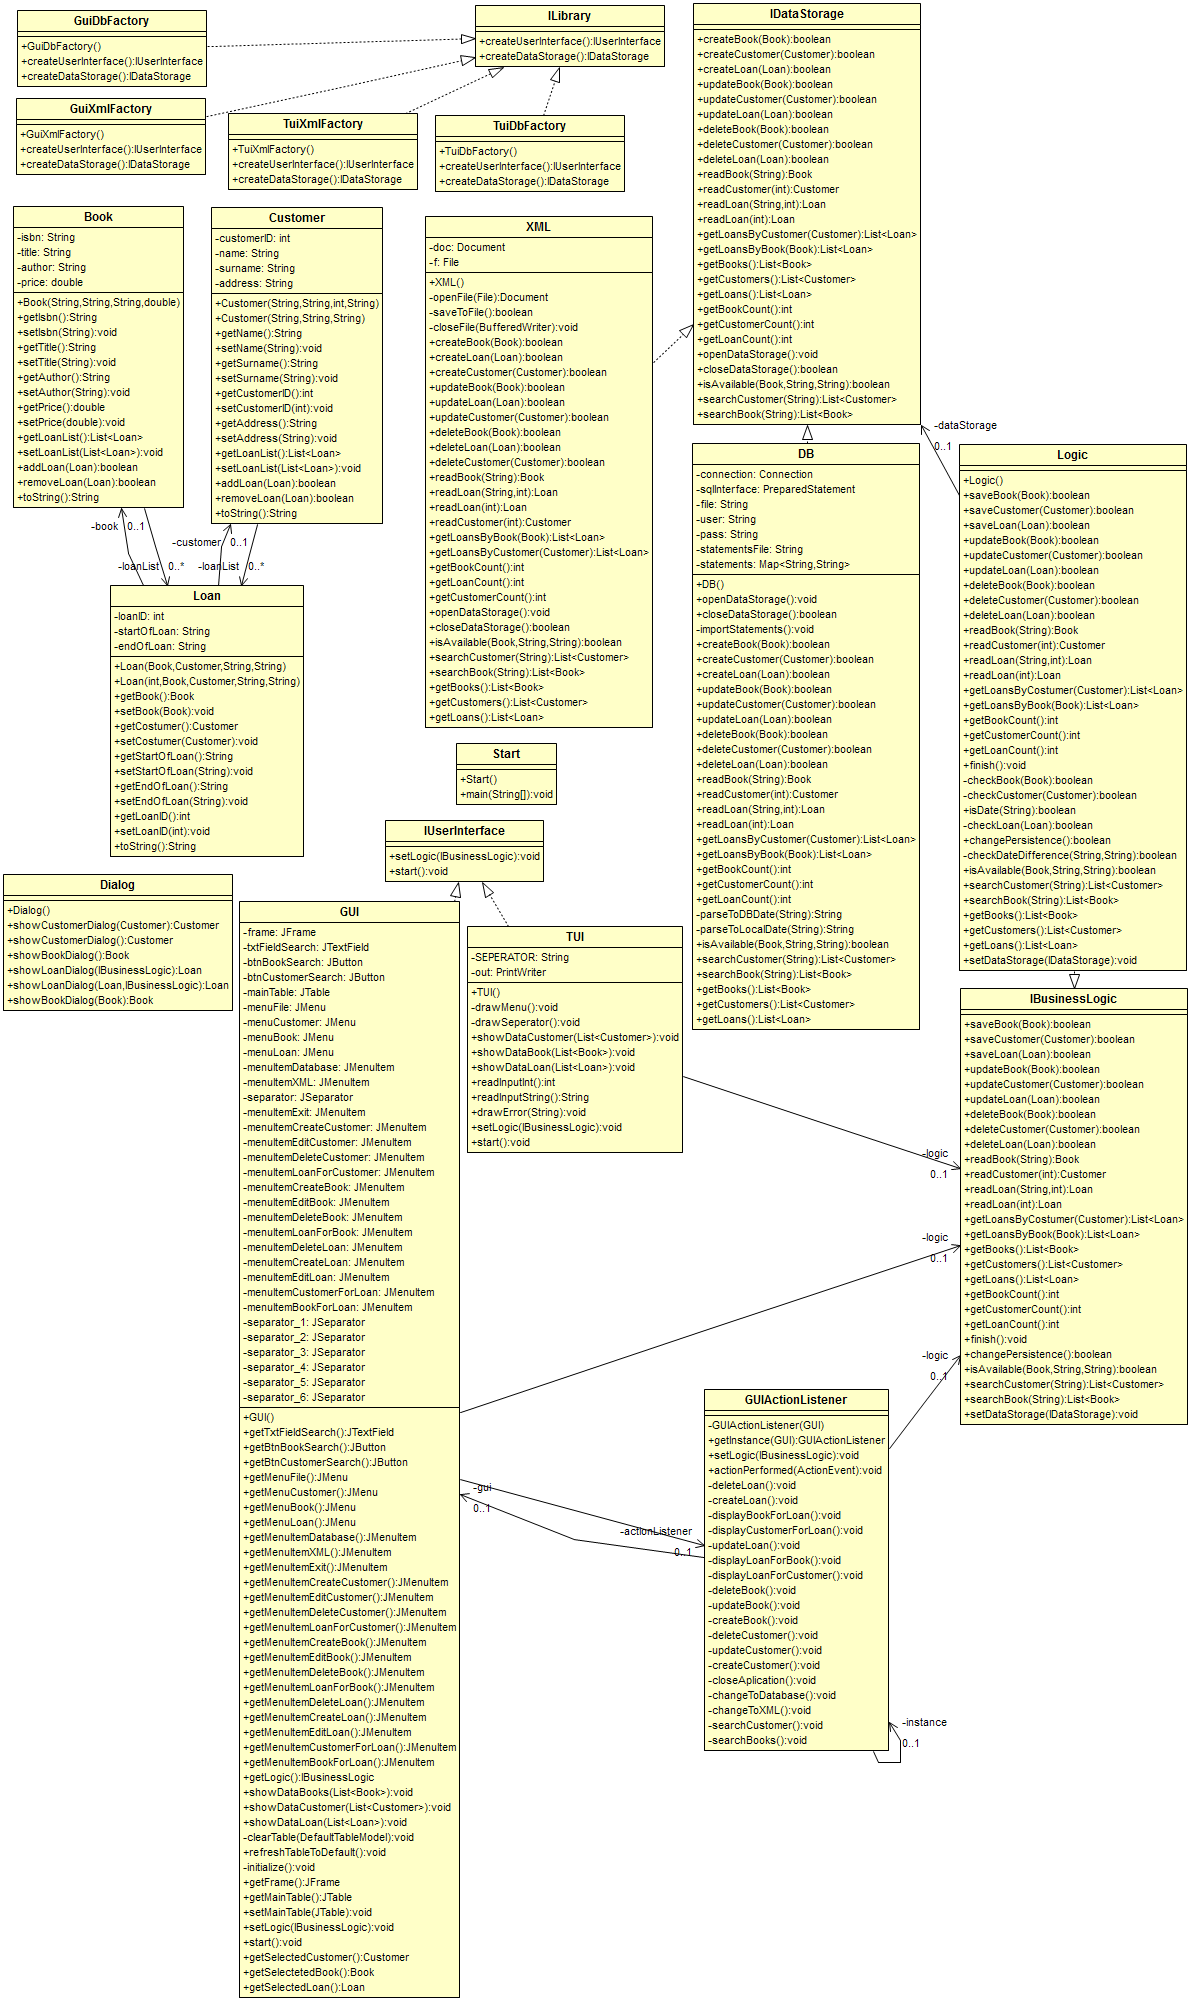
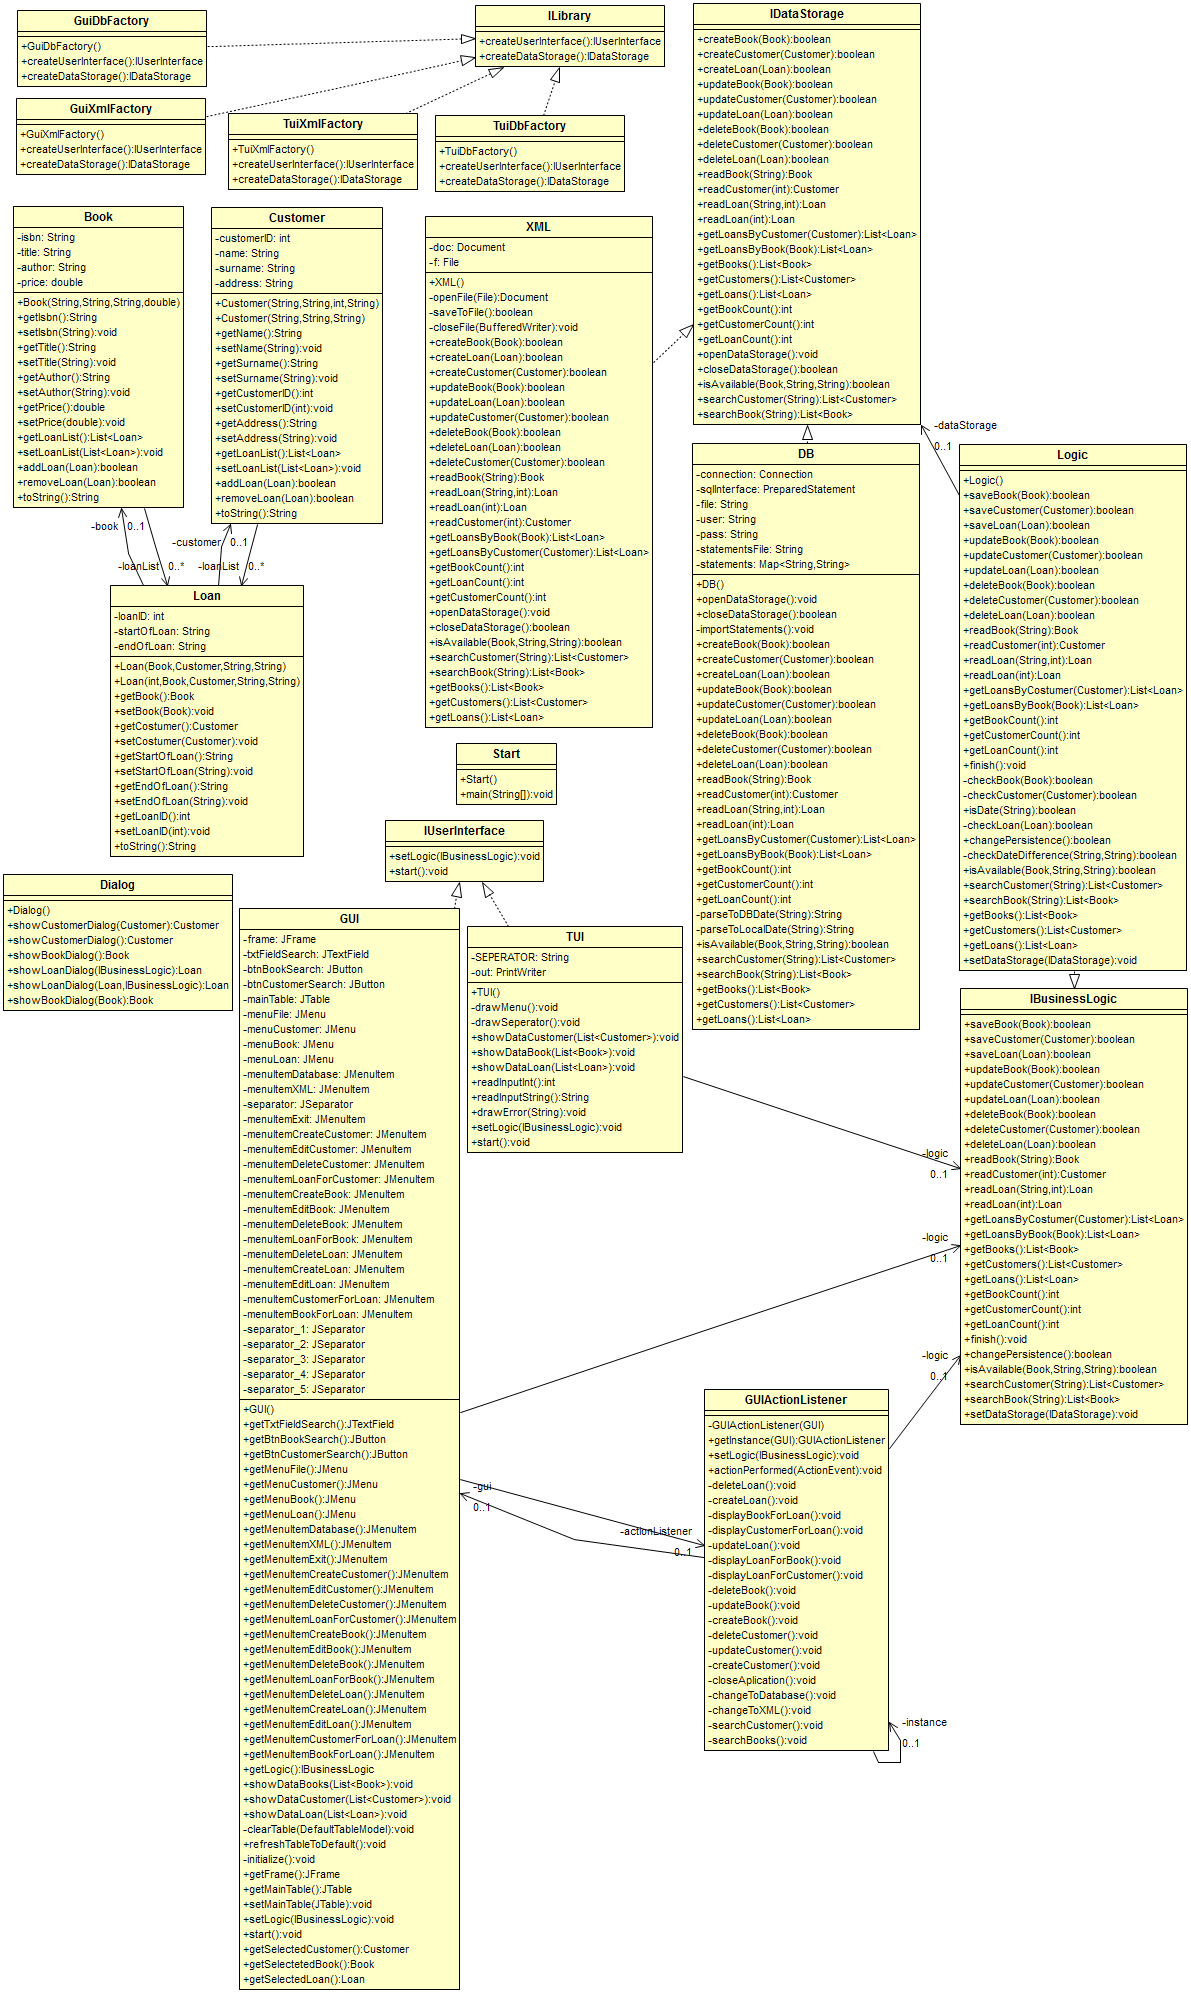
Zeug von Tobi

diff --git a/Bibliotheksverwaltung/src/de/oszimt/gruppe3/bibliotheksverwaltung/presentation_layer/Dialog.java b/Bibliotheksverwaltung/src/de/oszimt/gruppe3/bibliotheksverwaltung/presentation_layer/Dialog.java
@@ -38,10 +38,12 @@ public class Dialog {
 			txtAddress.setText(customer.getAddress());
 		}
 
-		JOptionPane.showOptionDialog(null, inputs, "Benutzer Anlegen",
+		int result = JOptionPane.showOptionDialog(null, inputs, "Benutzer Anlegen",
 				JOptionPane.YES_NO_OPTION, JOptionPane.PLAIN_MESSAGE, null,
 				new String[] { "Speichern", "Abbrechen" }, "Speichern");
 
+		if(result == JOptionPane.CANCEL_OPTION) return null;
+		
 		if (customer != null) {
 			customer.setAddress(txtAddress.getText());
 			customer.setName(txtName.getText());
@@ -94,10 +96,12 @@ public class Dialog {
 			txtStartOfLoan.setText(loan.getStartOfLoan());
 			txtEndOfLoan.setText(loan.getEndOfLoan());
 		}
-		JOptionPane.showOptionDialog(null, inputs, "Ausleihvorgang Anlegen",
+	int result =	JOptionPane.showOptionDialog(null, inputs, "Ausleihvorgang Anlegen",
 				JOptionPane.YES_NO_OPTION, JOptionPane.PLAIN_MESSAGE, null,
 				new String[] { "Speichern", "Abbrechen" }, "Speichern");
 
+		if(result == JOptionPane.CANCEL_OPTION) return null;
+		
 		int row = tableBook.getSelectedRow();
 		String isbn =(String) tableBook.getValueAt(row, 0);
 		Book book = logic.readBook(isbn);
@@ -136,10 +140,12 @@ public class Dialog {
 			txtPrize.setText(book.getPrice()+"");
 		}
 
-		JOptionPane.showOptionDialog(null, inputs, "Benutzer Anlegen",
+		int result = JOptionPane.showOptionDialog(null, inputs, "Benutzer Anlegen",
 				JOptionPane.YES_NO_OPTION, JOptionPane.PLAIN_MESSAGE, null,
 				new String[] { "Speichern", "Abbrechen" }, "Speichern");
 
+		if(result == JOptionPane.CANCEL_OPTION) return null;
+		
 		if (book != null) {
 			book.setIsbn(txtIsbn.getText());
 			book.setAuthor(txtAuthor.getText());

diff --git a/Bibliotheksverwaltung/src/de/oszimt/gruppe3/bibliotheksverwaltung/presentation_layer/GUI.java b/Bibliotheksverwaltung/src/de/oszimt/gruppe3/bibliotheksverwaltung/presentation_layer/GUI.java
@@ -38,7 +38,7 @@ public class GUI implements IUserInterface {
 	private JMenu menuCustomer;
 	private JMenu menuBook;
 	private JMenu menuLoan;
-	private JMenuItem menuItemDataStorage;
+	private JMenuItem menuItemDatabase;
 	private JMenuItem menuItemXML;
 	private JSeparator separator;
 	private JMenuItem menuItemExit;
@@ -130,8 +130,12 @@ public class GUI implements IUserInterface {
 		return menuLoan;
 	}
 
-	public JMenuItem getMenuItemDataStorage() {
-		return menuItemDataStorage;
+	public JMenuItem getMenuItemDatabase() {
+		return menuItemDatabase;
+	}
+
+	public JMenuItem getMenuItemXML() {
+		return menuItemXML;
 	}
 
 	public JMenuItem getMenuItemExit() {
@@ -252,10 +256,14 @@ public class GUI implements IUserInterface {
 		menuFile = new JMenu("Datei");
 		menuBar.add(menuFile);
 		
-		menuItemDataStorage = new JMenuItem("Datenhaltung wechseln");
-		menuItemDataStorage.addActionListener(actionListener);
-		menuFile.add(menuItemDataStorage);
-			
+		menuItemDatabase = new JMenuItem("Datenbank Benutzen");
+		menuItemDatabase.addActionListener(actionListener);
+		menuFile.add(menuItemDatabase);
+		
+		menuItemXML = new JMenuItem("XML Benutzen");
+		menuItemXML.addActionListener(actionListener);
+		menuFile.add(menuItemXML);
+		
 		separator = new JSeparator();
 		menuFile.add(separator);
 		
